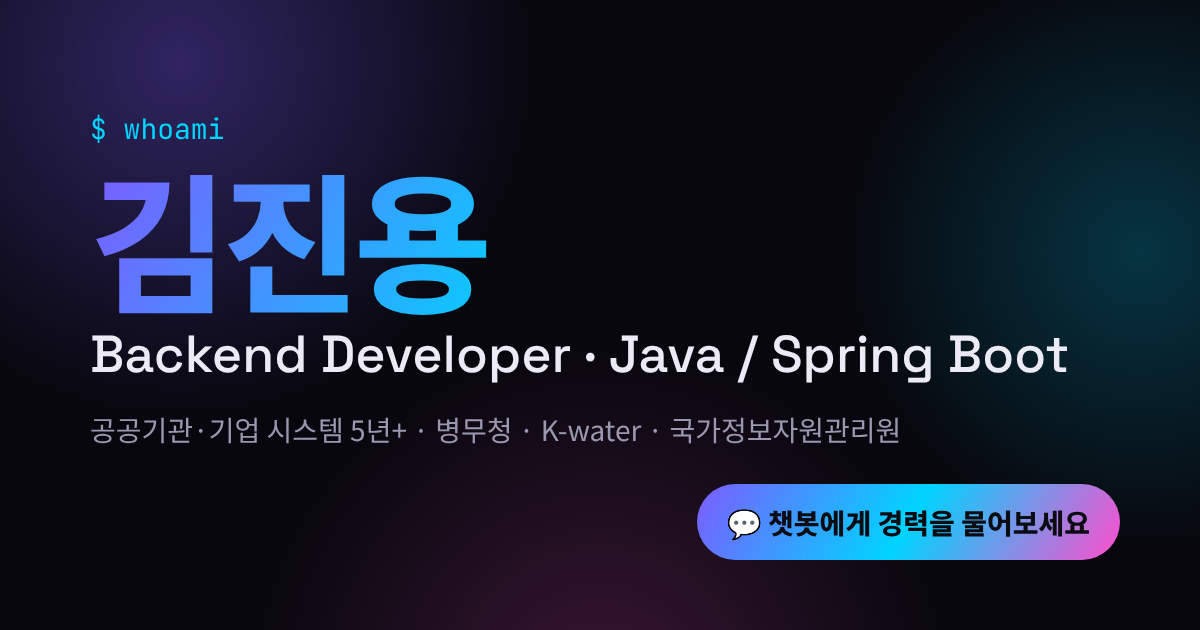
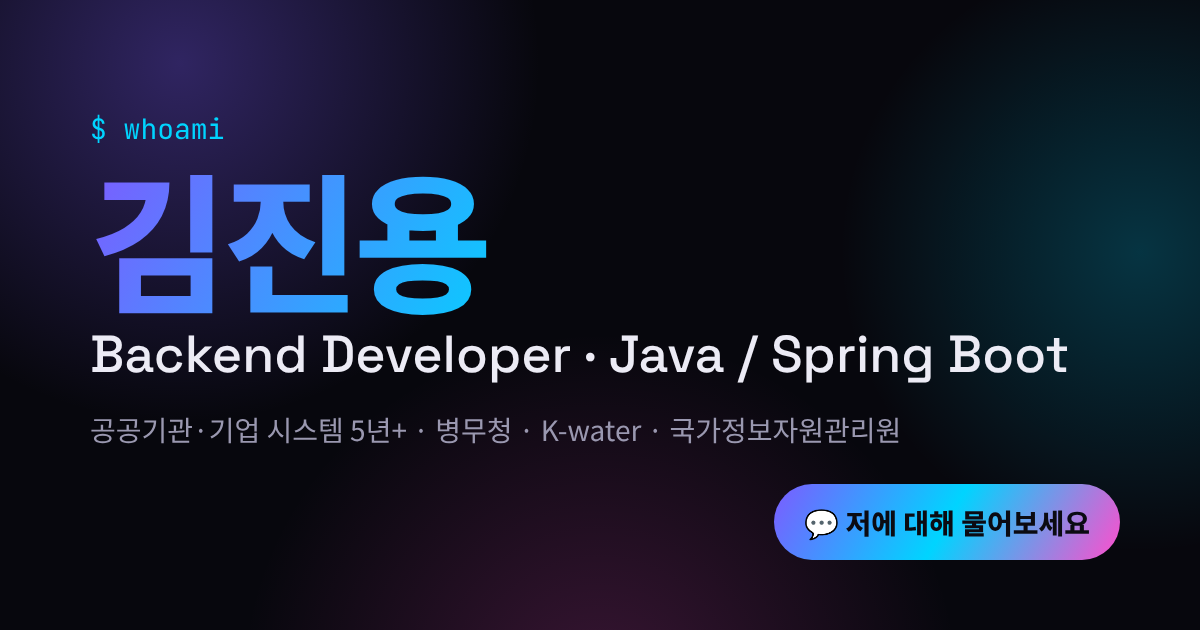
Soften the ask-button wording
Site buttons now read "💬 저에 대해 물어보세요" (floating button: "물어보기"),
the chatbot title reads "💬 진용님에 대해 물어보세요", and the link preview
image and description match.

Claude-Session: https://claude.ai/code/session_01X4hFs1AcsMHmFks4xLxVyt

Changed region(s): [[0.555, 0.754, 0.8942, 0.9048]]

diff --git a/index.html b/index.html
@@ -11,7 +11,7 @@
   <meta property="og:type" content="website" />
   <meta property="og:url" content="https://td-kim.github.io/portfolio/" />
   <meta property="og:title" content="김진용 | Backend Developer" />
-  <meta property="og:description" content="Java · Spring Boot로 공공·기업 시스템을 만들어 온 5년 차 개발자. 챗봇에게 경력을 물어보세요." />
+  <meta property="og:description" content="Java · Spring Boot로 공공·기업 시스템을 만들어 온 5년 차 개발자. 챗봇에게 저에 대해 물어보세요." />
   <meta property="og:image" content="https://td-kim.github.io/portfolio/og.png" />
   <meta property="og:image:width" content="1200" />
   <meta property="og:image:height" content="630" />
@@ -44,7 +44,7 @@
       <p class="hero-role"><span class="typed"></span><span class="caret">|</span></p>
       <p class="hero-tagline" data-tagline></p>
       <div class="hero-cta">
-        <button type="button" class="btn btn-primary magnetic" data-ask>💬 김진용에게 질문하기</button>
+        <button type="button" class="btn btn-primary magnetic" data-ask>💬 저에 대해 물어보세요</button>
         <a href="#projects" class="btn btn-ghost magnetic">프로젝트 보기</a>
       </div>
       <a href="#about" class="scroll-hint" aria-label="아래로 스크롤"><span></span></a>
@@ -84,13 +84,13 @@
     <section id="contact" class="section contact">
       <h2 class="section-title reveal"><span class="num mono">05</span> Contact</h2>
       <p class="contact-lead reveal">함께 일하고 싶거나 궁금한 점이 있다면 편하게 연락주세요.<br />챗봇에게 물어보면 경력에 대해 더 자세히 답해 드리고, 메시지도 전해 드려요.</p>
-      <button type="button" class="btn btn-primary magnetic ask-cta reveal" data-ask>💬 김진용에게 질문하기</button>
+      <button type="button" class="btn btn-primary magnetic ask-cta reveal" data-ask>💬 저에 대해 물어보세요</button>
       <a class="contact-email reveal magnetic" data-email></a>
       <div class="contact-links reveal"></div>
     </section>
   </main>
 
-  <button type="button" class="ask-fab" data-ask aria-label="김진용에게 질문하기">💬<span>질문하기</span></button>
+  <button type="button" class="ask-fab" data-ask aria-label="저에 대해 물어보세요">💬<span>물어보기</span></button>
 
   <div class="wake" role="dialog" aria-modal="true" aria-labelledby="wake-title" hidden>
     <div class="wake-card">

diff --git a/chatbot/app.py b/chatbot/app.py
@@ -1,4 +1,4 @@
-"""김진용에게 질문하기 - Streamlit 챗봇 화면.
+"""진용님에 대해 물어보세요 - Streamlit 챗봇 화면.
 
 실행: streamlit run chatbot/app.py
 필요한 설정(.streamlit/secrets.toml 또는 환경변수): chatbot/README.md 참고
@@ -41,7 +41,7 @@ from agent import (  # noqa: E402
     resolve_api_key,
 )
 
-st.set_page_config(page_title="김진용에게 질문하기", page_icon="💬", layout="centered")
+st.set_page_config(page_title="진용님에 대해 물어보세요", page_icon="💬", layout="centered")
 
 PORTFOLIO_URL = os.environ.get("PORTFOLIO_URL", "")
 # 초대 코드. 비어 있으면 누구나 쓸 수 있다. 예: ACCESS_CODES = "카카오 인사팀:k7f2q9:2026-11-30,친구:m3x8zz"
@@ -111,7 +111,7 @@ def get_budget() -> DailyBudget:  # 모든 방문자가 함께 쓰는 하루 한
 
 if PORTFOLIO_URL:
     st.markdown(f"[← 포트폴리오로 돌아가기]({PORTFOLIO_URL})")
-st.markdown('<p class="hero-title">💬 김진용에게 질문하기</p>', unsafe_allow_html=True)
+st.markdown('<p class="hero-title">💬 진용님에 대해 물어보세요</p>', unsafe_allow_html=True)
 st.markdown(
     '<p class="hero-sub"><b>질문에 답하고, 필요하면 연락까지 이어주는 에이전트</b><br>'
     "경력·프로젝트 자료를 직접 찾아보고 답하며, 원하시면 진용님에게 메시지도 전해 드려요.</p>",

diff --git a/chatbot/README.md b/chatbot/README.md
@@ -1,6 +1,6 @@
-# 김진용에게 질문하기 (포트폴리오 챗봇)
+# 진용님에 대해 물어보세요 (포트폴리오 챗봇)
 
-포트폴리오 사이트의 "💬 김진용에게 질문하기" 버튼을 누르면 열리는 Streamlit 챗봇입니다.
+포트폴리오 사이트의 "💬 저에 대해 물어보세요" 버튼을 누르면 열리는 Streamlit 챗봇입니다.
 Claude Haiku(`claude-haiku-5-5`)가 도구로 경력 자료를 직접 찾아보고 답하며, 방문자가 원하면 이메일로 메시지를 전달합니다.
 
 ## 구조
@@ -73,7 +73,7 @@ python chatbot/live_check.py              # 실제 Claude 로 시나리오 10개
 저장소나 포트폴리오 사이트가 공개돼도 코드는 드러나지 않습니다.
 
 - **링크로 보내기**: 포트폴리오 주소 뒤에 `?code=코드` 를 붙여 보내면(`https://…/portfolio/?code=k7f2q9`),
-  사이트의 질문하기 버튼이 코드를 챗봇으로 넘겨서 바로 입장합니다. 챗봇 주소에 직접 붙여도 됩니다.
+  사이트의 물어보기 버튼이 코드를 챗봇으로 넘겨서 바로 입장합니다. 챗봇 주소에 직접 붙여도 됩니다.
 - **코드 없이 온 사람**: 사이트는 볼 수 있지만, 챗봇에서는 코드 입력 화면이 나옵니다. 5번 틀리면 새로고침해야 다시 시도할 수 있습니다.
 - **사람마다 다른 코드**: `"카카오인사팀:k7f2q9,네이버:p2w7rt"` 처럼 주면 Streamlit 로그(Manage app → Logs)에
   `[access] '카카오인사팀' 질문 3번째` 처럼 누가 썼는지 남습니다. 질문 내용은 남기지 않습니다.

diff --git a/README.md b/README.md
@@ -1,10 +1,10 @@
 # portfolio
 
-김진용(Jinyong Kim)의 포트폴리오 사이트와 "김진용에게 질문하기" 챗봇.
+김진용(Jinyong Kim)의 포트폴리오 사이트와 "저에 대해 물어보세요" 챗봇.
 
 - 사이트: https://td-kim.github.io/portfolio/ (GitHub Pages, `main` 브랜치 루트)
 - 챗봇: https://portfolio-c8vetzvd3jbl4tpdkdfjwx.streamlit.app (Streamlit Community Cloud, 초대 코드 필요)
-- 초대 링크: 사이트 주소 뒤에 `?code=코드` 를 붙여 보내면 질문하기 버튼이 코드를 챗봇에 넘겨줍니다
+- 초대 링크: 사이트 주소 뒤에 `?code=코드` 를 붙여 보내면 물어보기 버튼이 코드를 챗봇에 넘겨줍니다
 
 - `index.html`, `style.css`, `main.js`: 포트폴리오 사이트 (빌드 없는 정적 사이트)
 - `data.json`: 경력 자료. 사이트와 챗봇이 함께 씀
